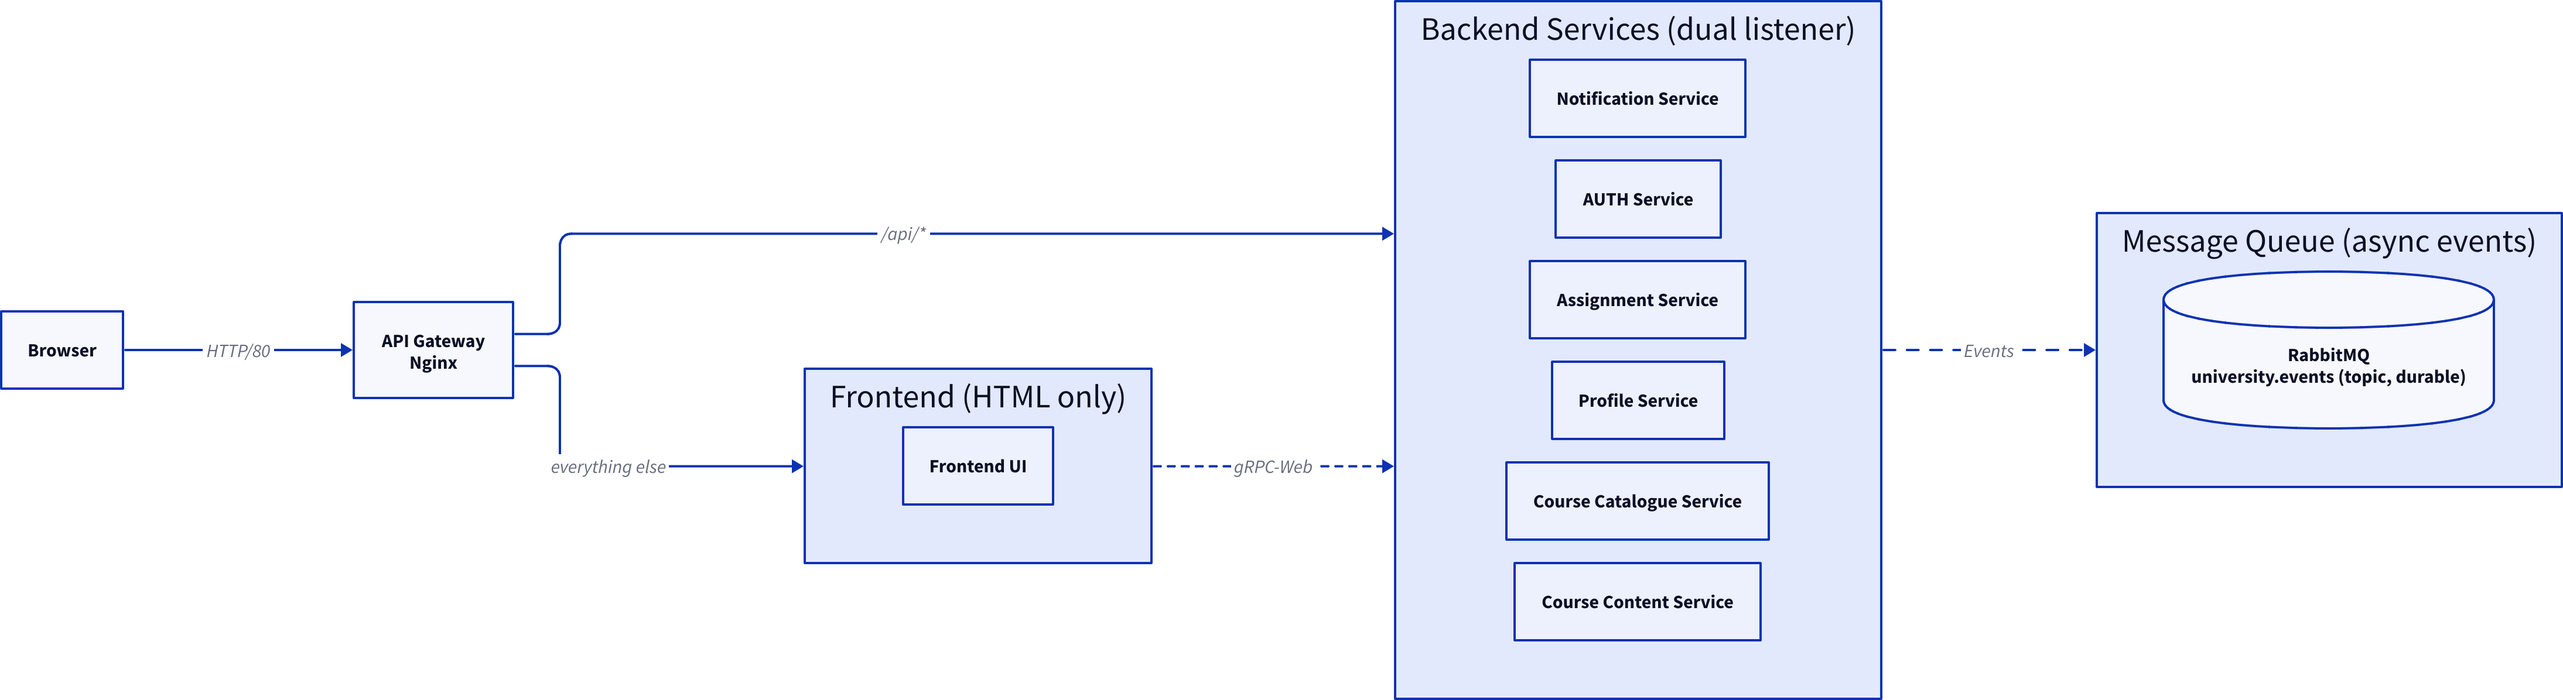
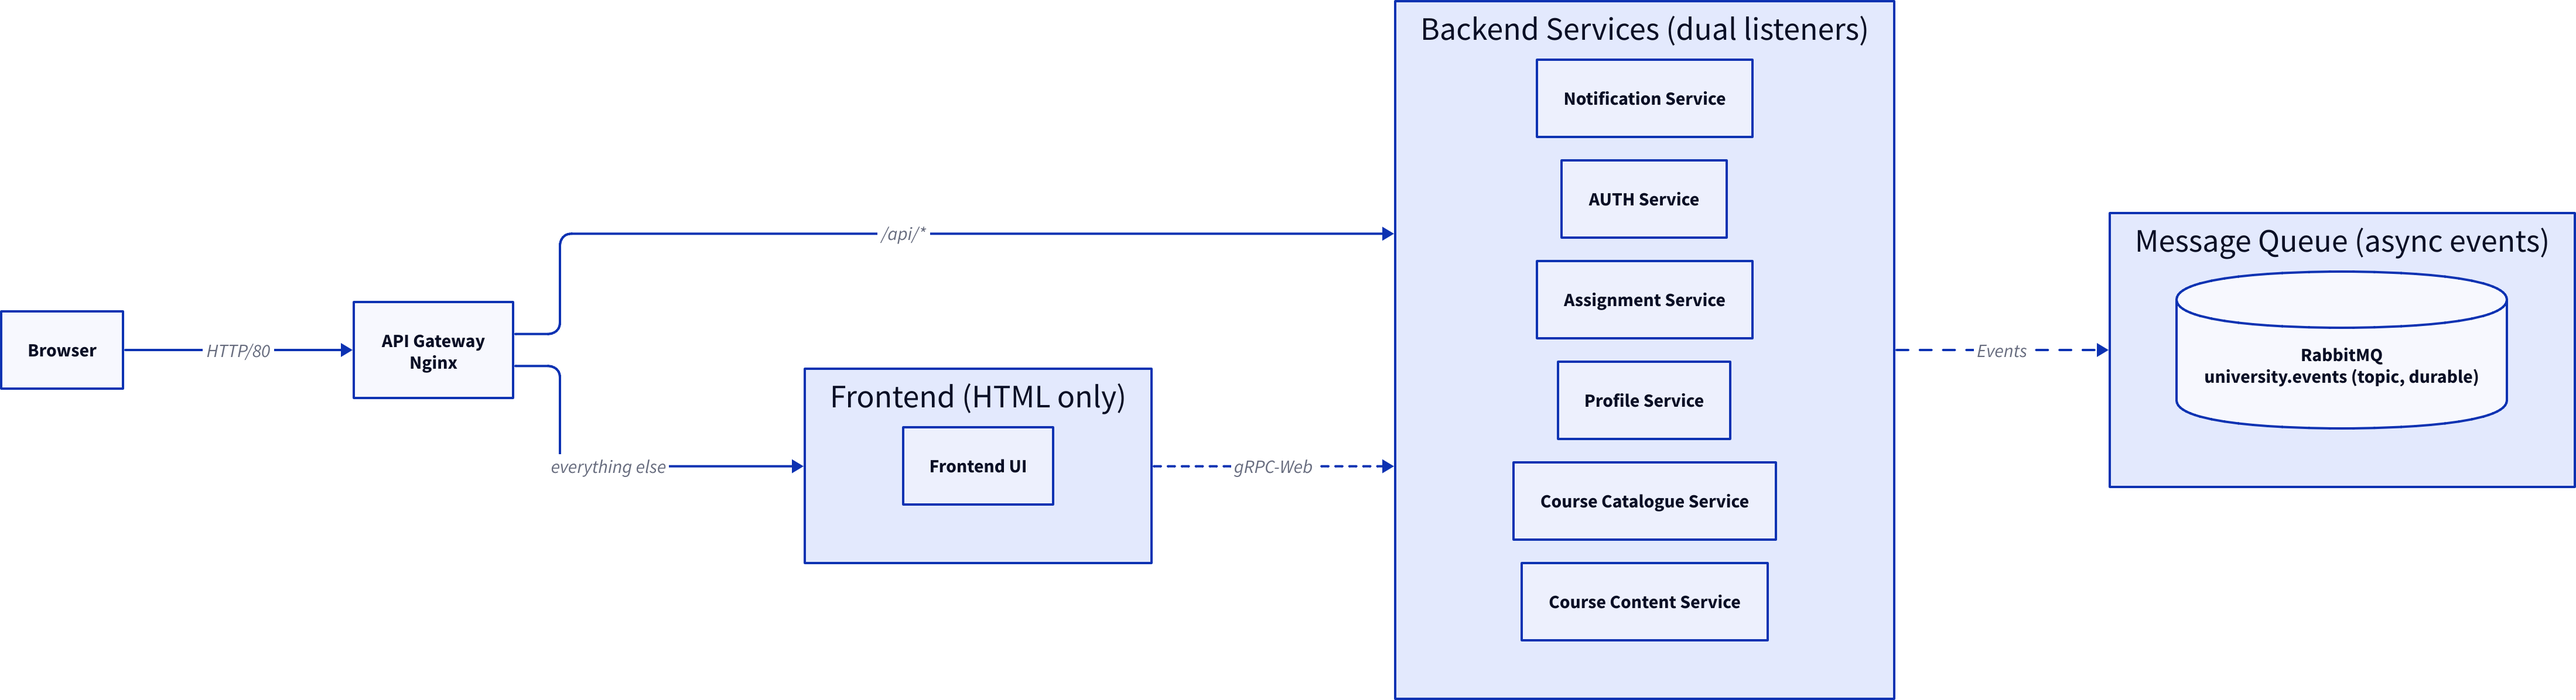
Added script folder, and cleaned up readme

diff --git a/README.md b/README.md
@@ -94,93 +94,20 @@ Every browser call goes to the gateway at `http://localhost` and is served by
 the owning service's REST listener. The surface has **25 endpoints**: 23 from
 the protobuf `google.api.http` annotations, plus two hand-written streaming
 routes. Authenticated routes need the session cookie or an explicit
-`Authorization: Bearer` header. Every failure uses one JSON shape; see
-[docs/api-examples.md](docs/api-examples.md).
+`Authorization: Bearer` header. The full table (with the RPC each route maps to)
+lives in [docs/design.md](docs/design.md#service-endpoints); every failure uses
+one JSON shape, shown in [docs/api-examples.md](docs/api-examples.md).
 
-### auth-service
-
-| Method | Path | Description |
-| --- | --- | --- |
-| `POST` | `/api/auth/login` | Validate credentials, set the `HttpOnly` session cookie |
-| `POST` | `/api/auth/validate` | Introspect a token |
-| `POST` | `/api/auth/logout` | Expire the session cookie |
-
-### profile-service
-
-| Method | Path | Description |
-| --- | --- | --- |
-| `GET` | `/api/profile` | Current user's profile |
-| `PUT` | `/api/profile` | Replace the current user's profile |
-
-### course-catalogue-service
-
-| Method | Path | Description |
-| --- | --- | --- |
-| `GET` | `/api/courses` | List courses (paginated: `page`, `page_size`) |
-| `GET` | `/api/courses/{course_id}` | One course |
-| `POST` | `/api/enrollments` | Enrol the current user in a course |
-| `GET` | `/api/enrollments/me` | Courses the current user is enrolled in |
-
-### course-content-service
-
-| Method | Path | Description |
-| --- | --- | --- |
-| `GET` | `/api/courses/{course_id}/modules` | List a course's modules |
-| `POST` | `/api/courses/{course_id}/modules` | Create a module |
-| `GET` | `/api/courses/{course_id}/modules/{module_id}` | One module |
-| `PUT` | `/api/courses/{course_id}/modules/{module_id}` | Update a module |
-| `DELETE` | `/api/courses/{course_id}/modules/{module_id}` | Delete a module |
-
-### assignment-service
-
-| Method | Path | Description |
-| --- | --- | --- |
-| `GET` | `/api/courses/{course_id}/assignments` | Assignments for a course |
-| `POST` | `/api/courses/{course_id}/assignments` | Create an assignment |
-| `GET` | `/api/assignments/{assignment_id}` | One assignment |
-| `GET` | `/api/assignments/{assignment_id}/submissions` | All submissions for an assignment |
-| `GET` | `/api/assignments/{assignment_id}/submissions/mine` | The caller's submissions |
-| `GET` | `/api/submissions/{submission_id}` | One submission |
-| `POST` | `/api/submissions/{submission_id}/grade` | Grade a submission |
-| `POST` | `/api/assignments/{assignment_id}/submissions` | Upload a submission (multipart, streaming) |
-| `GET` | `/api/submissions/{submission_id}/file` | Download a submission (binary, streaming) |
-
-The last two are hand-written. They stream the file instead of base64-encoding
-it in JSON. The application caps uploads at 10 MB; nginx allows 12 MB for the
-multipart envelope.
-
-### notification-service
-
-| Method | Path | Description |
-| --- | --- | --- |
-| `GET` | `/api/notifications` | The caller's notifications |
-| `POST` | `/api/notifications/{notification_id}/read` | Mark one notification read |
-
-## Testing process
-
-**Go tests and vet, per module.** The repo is a `go.work` workspace. Run `./...`
-inside each module:
+## Testing
 
 ```bash
-for m in common frontend auth-service profile-service notification-service \
-         course-catalogue-service course-content-service assignment-service; do
-  (cd "$m" && go test ./... && go vet ./...)
-done
+make test          # go test + go vet in every go.work module
+make routing-test  # /api/* routing table against stub upstreams (requires docker)
 ```
 
-**Gateway routing.** The `/api/*` routes are regex-ordered. `nginx -t` cannot
-see a wrong order: every route parses and the wrong route wins. `routing-test.sh`
-runs the route table against stub upstreams and checks which service gets each
-path, the JSON 404 catch-all, query-string preservation, cookie to bearer
-promotion, and the 12 MB body limit:
-
-```bash
-./nginx/routing-test.sh   # requires docker
-```
-
-**Manual end-to-end.** Run `docker compose up --build`, then use the UI and the
-documented `curl` calls. The captured results are the evidence in
-[docs/api-examples.md](docs/api-examples.md) and
+For the manual end-to-end pass (stack up, UI, documented `curl` calls), see
+[docs/screenshots/README.md](docs/screenshots/README.md). The captured results
+are the evidence in [docs/api-examples.md](docs/api-examples.md) and
 [docs/screenshots/](docs/screenshots/).
 
 ## Known limitations

diff --git a/docs/design.md b/docs/design.md
@@ -314,8 +314,6 @@ generated gateway routes, not the two hand-written streaming routes.
 
 ## Design rationale
 
-This section answers the "thinking microservices" questions.
-
 ### Service boundaries
 
 Each service owns one business capability and can be described in a sentence:
@@ -367,6 +365,3 @@ unchanged. But event consumers must be bound before the event is published.
   and RabbitMQ competing consumers. (Phase 5, out of scope.)
 - **Close the documented gaps:** TLS/mTLS, broker secret injection, health
   checks, gateway rate limiting, and an idempotent notification consumer.
-
-For the implementation plan and known issues, see [plan.md](plan.md) and
-[notes.md](notes.md).
